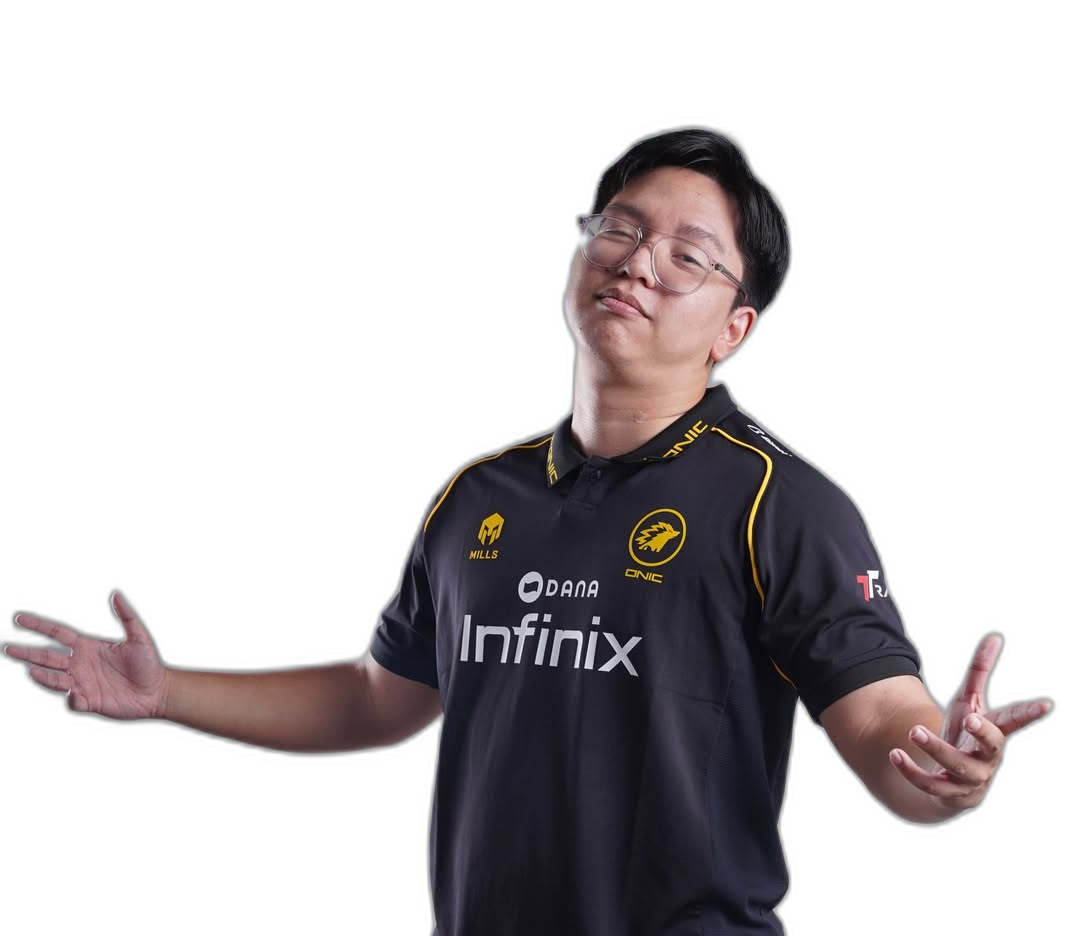
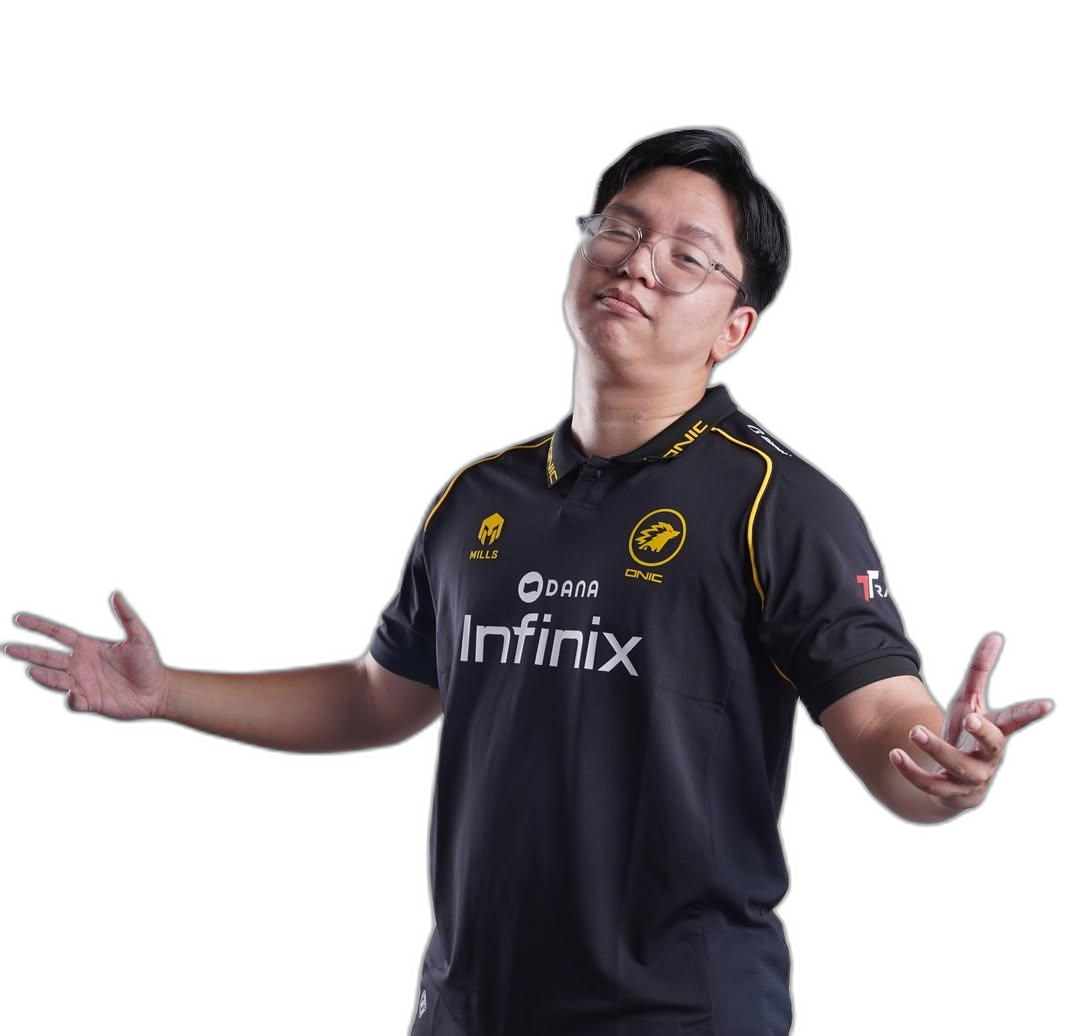
fix: hero text position centered, photo enlarged with hands visible, weapon cards more visible

Changed region(s): [[0.0, 0.1239, 0.9778, 1.0], [0.5194, 0.8985, 0.6111, 0.9915]]

diff --git a/style.css b/style.css
@@ -177,7 +177,7 @@ a {
     background: transparent;
     overflow: hidden;
     display: flex;
-    align-items: flex-end;
+    align-items: stretch;
     z-index: 1;
 }
 
@@ -186,7 +186,7 @@ a {
     margin: 0 auto;
     padding: 100px 24px 0;
     display: flex;
-    align-items: flex-end;
+    align-items: center;
     justify-content: space-between;
     gap: 40px;
     position: relative;
@@ -197,7 +197,6 @@ a {
 .hero-text {
     flex: 1;
     max-width: 580px;
-    padding-bottom: 80px;
 }
 
 .hero-logos {
@@ -345,9 +344,9 @@ a {
 .hero-image.no-frame {
     display: flex;
     align-items: flex-end;
-    justify-content: flex-end;
-    max-width: 480px;
-    overflow: hidden;
+    justify-content: center;
+    max-width: 520px;
+    overflow: visible;
     align-self: flex-end;
 }
 
@@ -356,10 +355,9 @@ a {
     box-shadow: none;
     border: none;
     filter: drop-shadow(0 10px 30px rgba(0,0,0,0.5));
-    width: 120%;
+    width: 130%;
     max-width: none;
-    object-fit: cover;
-    object-position: top center;
+    object-fit: contain;
     display: block;
 }
 
@@ -869,8 +867,8 @@ a {
 .admin-toggle-btn.active { background: rgba(255,215,0,0.1); border-color: var(--primary); color: var(--primary); }
 
 .weapon-card {
-    background: rgba(20, 20, 40, 0.9);
-    border: 1px solid rgba(255, 215, 0, 0.15);
+    background: rgba(25, 25, 50, 0.95);
+    border: 1px solid rgba(255, 215, 0, 0.25);
     border-radius: 12px;
     overflow: hidden;
     transition: all 0.3s ease;
@@ -921,7 +919,7 @@ a {
 .weapon-img-placeholder {
     width: 100%;
     height: 100%;
-    background: rgba(255, 255, 255, 0.03);
+    background: rgba(255, 215, 0, 0.04);
     display: flex;
     flex-direction: column;
     align-items: center;
@@ -932,12 +930,13 @@ a {
 }
 
 .weapon-img-placeholder i {
-    font-size: 2rem;
-    opacity: 0.3;
+    font-size: 2.5rem;
+    opacity: 0.5;
+    color: var(--primary);
 }
 
 .weapon-img-placeholder span {
-    opacity: 0.4;
+    opacity: 0.6;
     font-size: 0.75rem;
     letter-spacing: 1px;
 }
